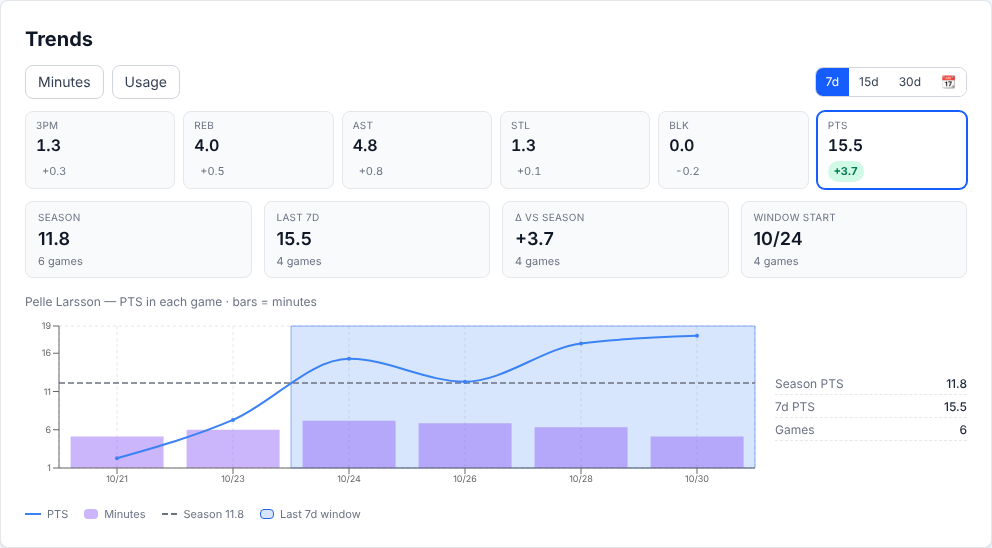
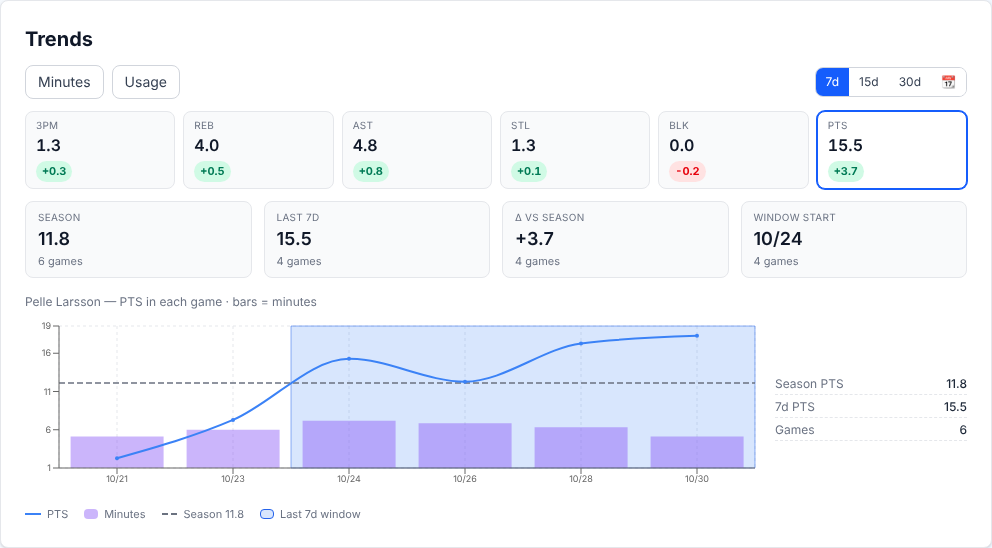
Player page: every category shows its trend, no minimum
The category row on the player card colours each change by direction
(green up, red down, reversed for TO); only a change that rounds to 0.0
stays grey. The per-category minimum stays a Trends-tab filter only, so
the game-log response no longer carries it.

Claude-Session: https://claude.ai/code/session_0185q4ojHSGjPg8C66dpDwuL

diff --git a/frontend/src/components/PlayerTrendsCard.tsx b/frontend/src/components/PlayerTrendsCard.tsx
@@ -225,8 +225,8 @@ export default function PlayerTrendsCard({ playerId, categories, reverseCategori
             <div className="grid grid-cols-3 sm:grid-cols-6 gap-2 mb-3" role="group" aria-label="Categories">
               {countingCats.map((cat) => {
                 const s = summarize(log, cat)
-                const min = log.category_min_delta?.[cat]
-                const moved = s.delta !== null && min !== undefined && Math.abs(s.delta) >= min
+                // every category shows its trend; only an exact zero stays grey
+                const moved = s.delta !== null && Math.abs(s.delta) >= 0.05
                 const deltaClass = !moved
                   ? 'text-gray-500 dark:text-gray-400'
                   : isGoodChange(s.delta as number, cat, reverse)

diff --git a/frontend/src/types/api.ts b/frontend/src/types/api.ts
@@ -938,8 +938,6 @@ export interface GameLogResponse {
   league_usg: number | null;
   baseline_seasons: number;
   games: GameLogEntry[];
-  /** Per-category minimum change the Trends Categories tab lists by. */
-  category_min_delta?: Partial<Record<CountingCategory, number>>;
 }
 
 export interface RankMover {

diff --git a/backend/tests/services/test_trend_service.py b/backend/tests/services/test_trend_service.py
@@ -1276,8 +1276,3 @@ def test_category_change_gate_is_the_minimum_either_direction():
     pts = next(s for s in items[0].stats if s.cat == "PTS")
     assert pts.flagged and pts.delta < -3.0
 
-
-def test_build_game_log_carries_category_minimums():
-    games_df = pd.DataFrame([_game_log_row(date(2026, 6, 1), 30.0, 7, 14, 2, 2, 2, 5)])
-    log = build_game_log(games_df, 42, "2025-26", 15, date(2026, 5, 20), {}, 2)
-    assert log.category_min_delta == trend_service.CATEGORY_MIN_DELTA

diff --git a/backend/app/models/trend_models.py b/backend/app/models/trend_models.py
@@ -175,6 +175,3 @@ class GameLogResponse(BaseModel):
     league_usg: Optional[float] = None  # minutes-weighted league USG%, ~20 by construction
     baseline_seasons: int
     games: list[GameLogEntry]
-    # same per-category minimum change the Trends Categories tab lists by, so the
-    # player page marks the same moves
-    category_min_delta: dict[str, float] = {}

diff --git a/backend/app/services/trend_service.py b/backend/app/services/trend_service.py
@@ -612,7 +612,6 @@ def build_game_log(
         league_usg=league_usg,
         baseline_seasons=baseline_seasons,
         games=entries,
-        category_min_delta=dict(CATEGORY_MIN_DELTA),
     )
 
 
